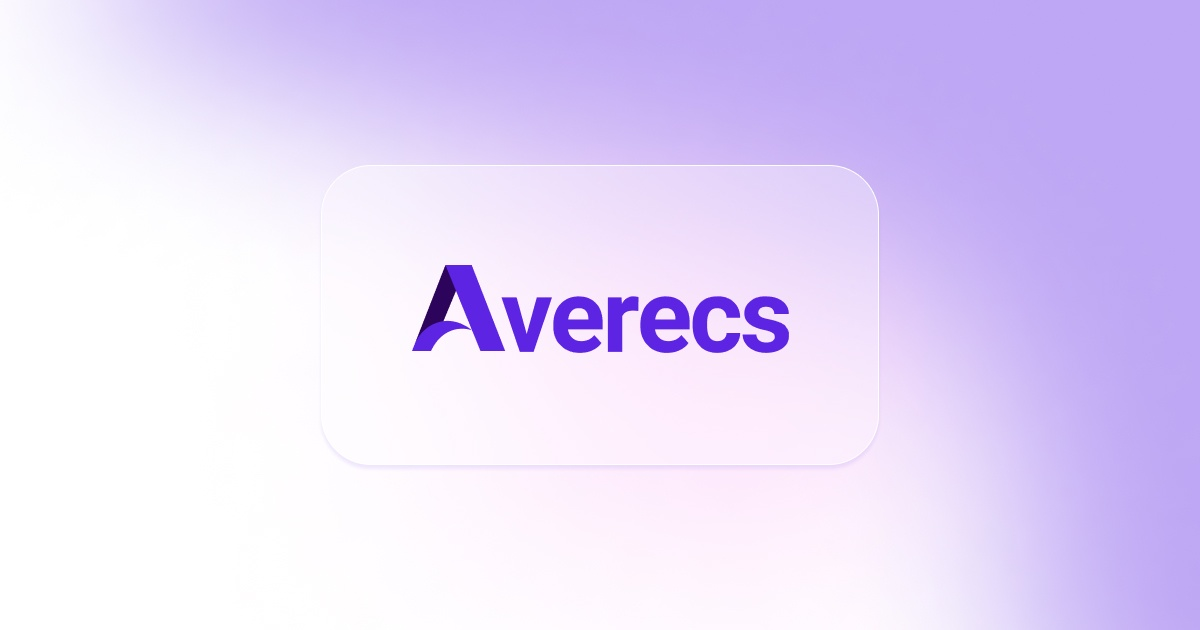
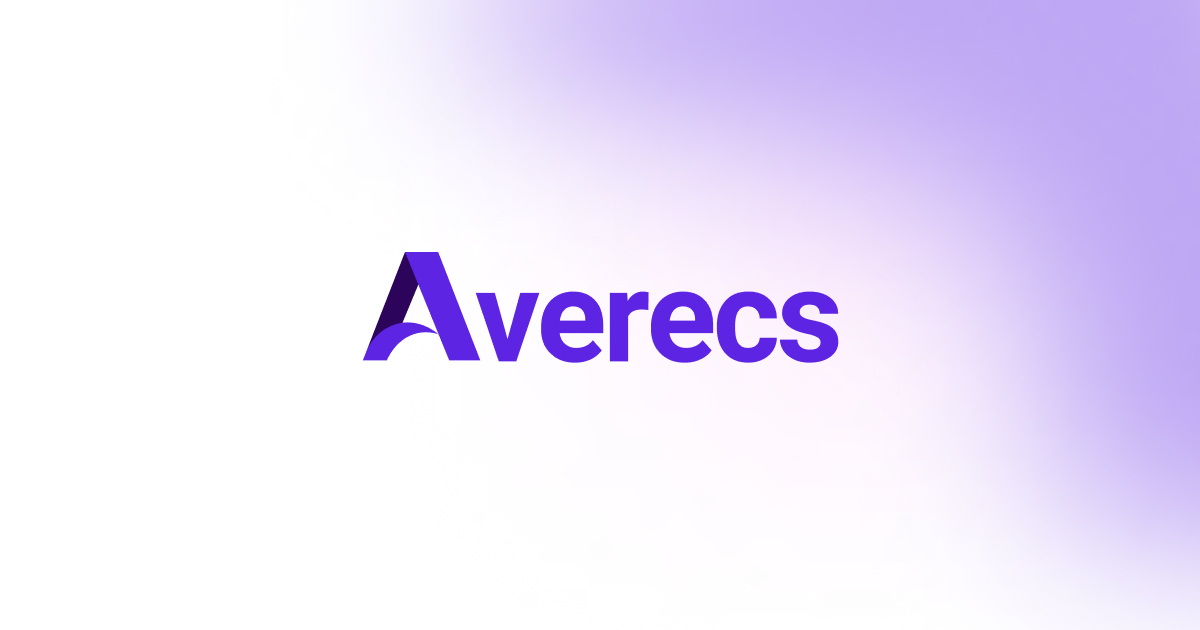
Fix our team scroll bar hide in safari and improve og image

Changed region(s): [[0.0617, 0.0, 1.0, 1.0], [0.37, 0.7238, 0.7092, 0.754]]

diff --git a/styles.css b/styles.css
@@ -31,6 +31,7 @@ html {
 main .waves {
   position: relative;
   width: 100%;
+  height: 100%;
   aspect-ratio: 1/1;
 
   border-radius: 50%;
@@ -41,6 +42,7 @@ main .waves {
 
 main .wave {
   position: absolute;
+  z-index: 1;
   bottom: 0;
   right: 0;
   width: 200%; /* double width affects below! */
@@ -485,6 +487,11 @@ main .coming-soon span:nth-of-type(3) {
 
   padding: 2rem 0;
   margin-top: 1.5rem;
+}
+
+/* Hide scrollbar in safari */
+.our-team .slider::-webkit-scrollbar {
+  display: none;
 }
 
 .our-team .indicators {
